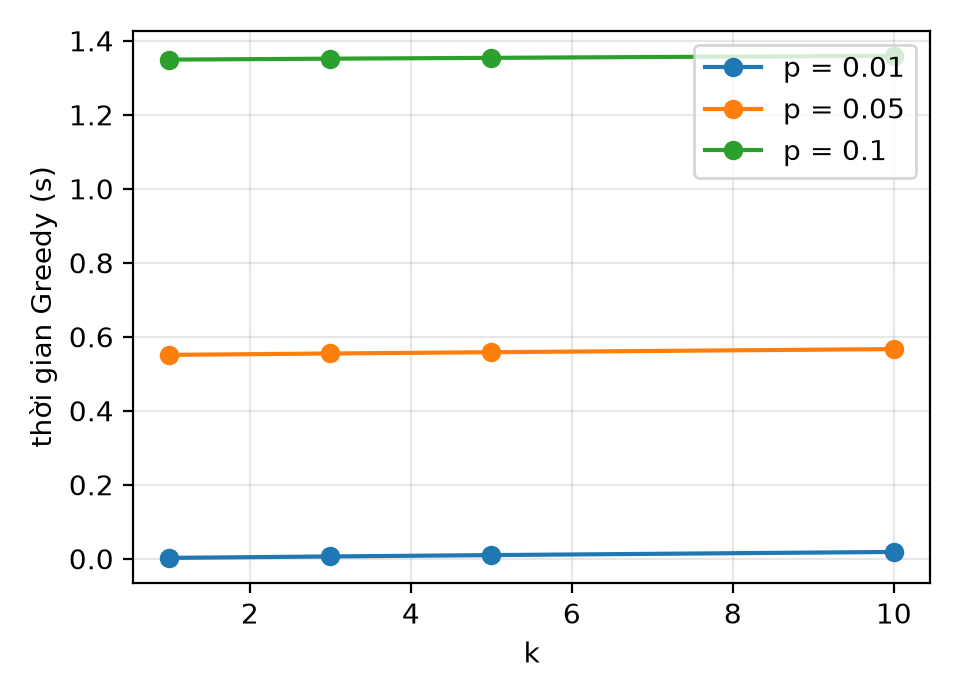
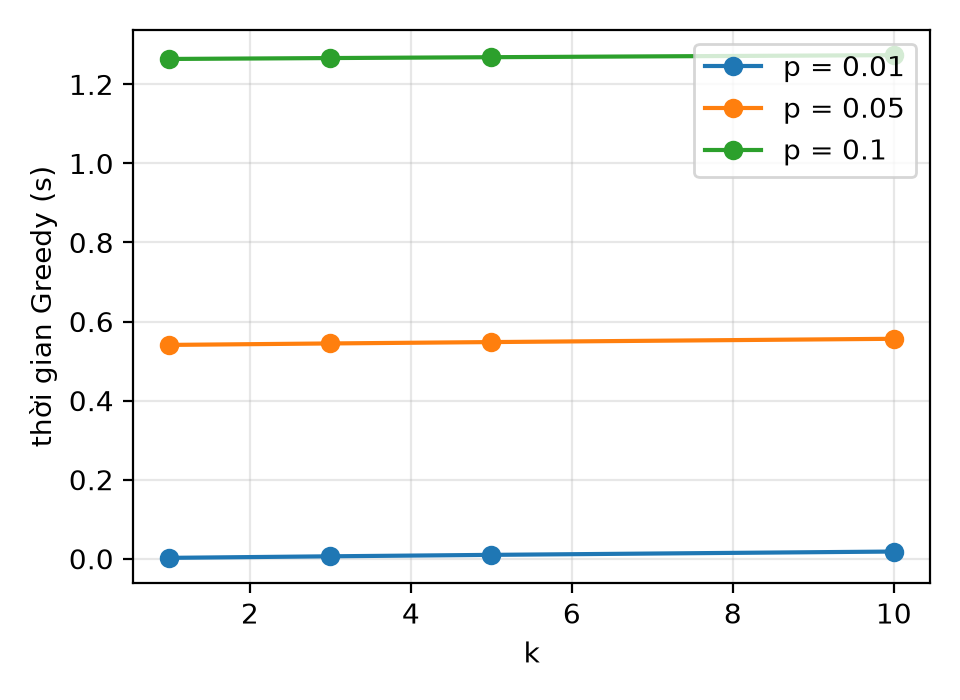
final 1

diff --git a/results/plan_table.md b/results/plan_table.md
@@ -22,9 +22,9 @@ Thời gian chọn seed (giây) và độ biến động giữa các cascade (đ
 
 | Thuật toán | k=1 | k=3 | k=5 | k=10 |
 |---|---|---|---|---|
-| Random | 1.38e-05s / sd 1.5 | 1.38e-05s / sd 3.0 | 1.38e-05s / sd 3.8 | 1.38e-05s / sd 5.7 |
-| Degree | 0.000127s / sd 5.8 | 0.000127s / sd 8.2 | 0.000127s / sd 9.1 | 0.000127s / sd 10.0 |
-| Greedy | 0.00222s / sd 5.8 | 0.00609s / sd 8.1 | 0.00973s / sd 9.2 | 0.0183s / sd 10.0 |
+| Random | 1.2e-05s / sd 1.5 | 1.2e-05s / sd 3.0 | 1.2e-05s / sd 3.8 | 1.2e-05s / sd 5.7 |
+| Degree | 0.000115s / sd 5.8 | 0.000115s / sd 8.2 | 0.000115s / sd 9.1 | 0.000115s / sd 10.0 |
+| Greedy | 0.00219s / sd 5.8 | 0.00612s / sd 8.1 | 0.00974s / sd 9.2 | 0.0182s / sd 10.0 |
 
 ## p = 0.05: σ(S) trung bình ± độ lệch chuẩn giữa các lần lặp
 
@@ -47,9 +47,9 @@ Thời gian chọn seed (giây) và độ biến động giữa các cascade (đ
 
 | Thuật toán | k=1 | k=3 | k=5 | k=10 |
 |---|---|---|---|---|
-| Random | 6.45e-06s / sd 155.9 | 6.45e-06s / sd 137.0 | 6.45e-06s / sd 96.4 | 6.45e-06s / sd 28.9 |
-| Degree | 0.000163s / sd 18.0 | 0.000163s / sd 18.0 | 0.000163s / sd 18.1 | 0.000163s / sd 18.0 |
-| Greedy | 0.551s / sd 32.1 | 0.555s / sd 17.5 | 0.558s / sd 17.7 | 0.567s / sd 17.9 |
+| Random | 6.33e-06s / sd 155.9 | 6.33e-06s / sd 137.0 | 6.33e-06s / sd 96.4 | 6.33e-06s / sd 28.9 |
+| Degree | 0.000134s / sd 18.0 | 0.000134s / sd 18.0 | 0.000134s / sd 18.1 | 0.000134s / sd 18.0 |
+| Greedy | 0.541s / sd 32.1 | 0.545s / sd 17.5 | 0.548s / sd 17.7 | 0.556s / sd 17.9 |
 
 ## p = 0.1: σ(S) trung bình ± độ lệch chuẩn giữa các lần lặp
 
@@ -72,6 +72,6 @@ Thời gian chọn seed (giây) và độ biến động giữa các cascade (đ
 
 | Thuật toán | k=1 | k=3 | k=5 | k=10 |
 |---|---|---|---|---|
-| Random | 6.63e-06s / sd 155.3 | 6.63e-06s / sd 86.6 | 6.63e-06s / sd 51.3 | 6.63e-06s / sd 12.2 |
-| Degree | 0.000132s / sd 12.0 | 0.000132s / sd 12.0 | 0.000132s / sd 11.8 | 0.000132s / sd 12.1 |
-| Greedy | 1.35s / sd 21.7 | 1.35s / sd 11.6 | 1.35s / sd 11.9 | 1.36s / sd 11.7 |
+| Random | 6.13e-06s / sd 155.3 | 6.13e-06s / sd 86.6 | 6.13e-06s / sd 51.3 | 6.13e-06s / sd 12.2 |
+| Degree | 0.000136s / sd 12.0 | 0.000136s / sd 12.0 | 0.000136s / sd 11.8 | 0.000136s / sd 12.1 |
+| Greedy | 1.26s / sd 21.7 | 1.27s / sd 11.6 | 1.27s / sd 11.9 | 1.27s / sd 11.7 |
